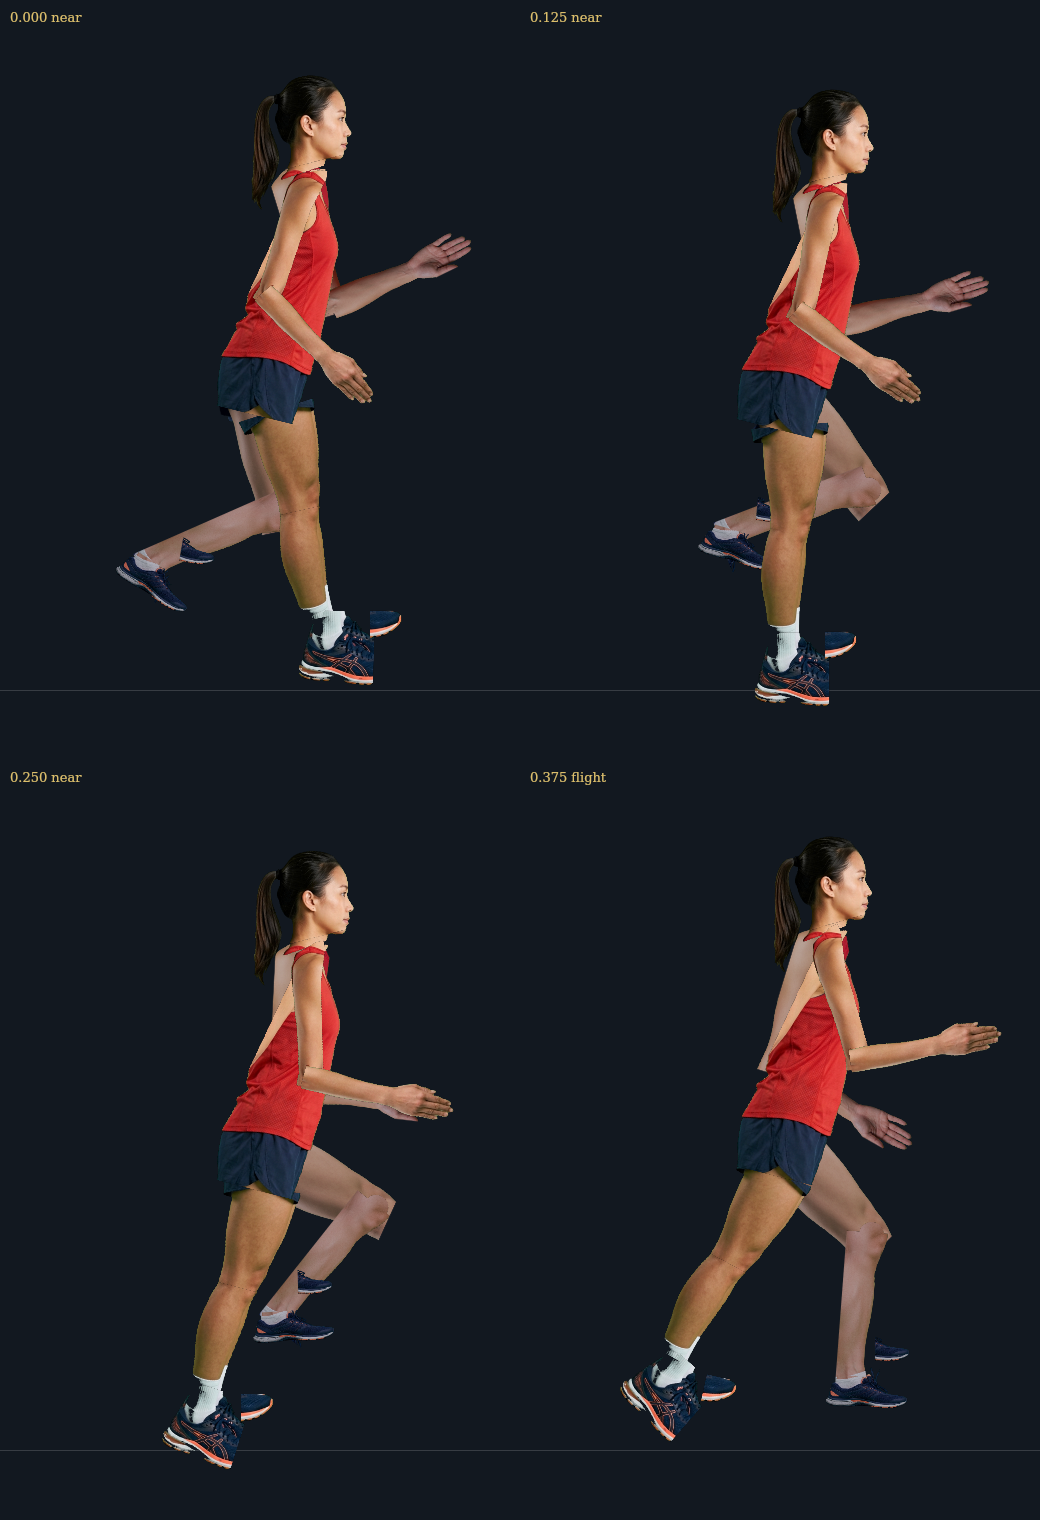
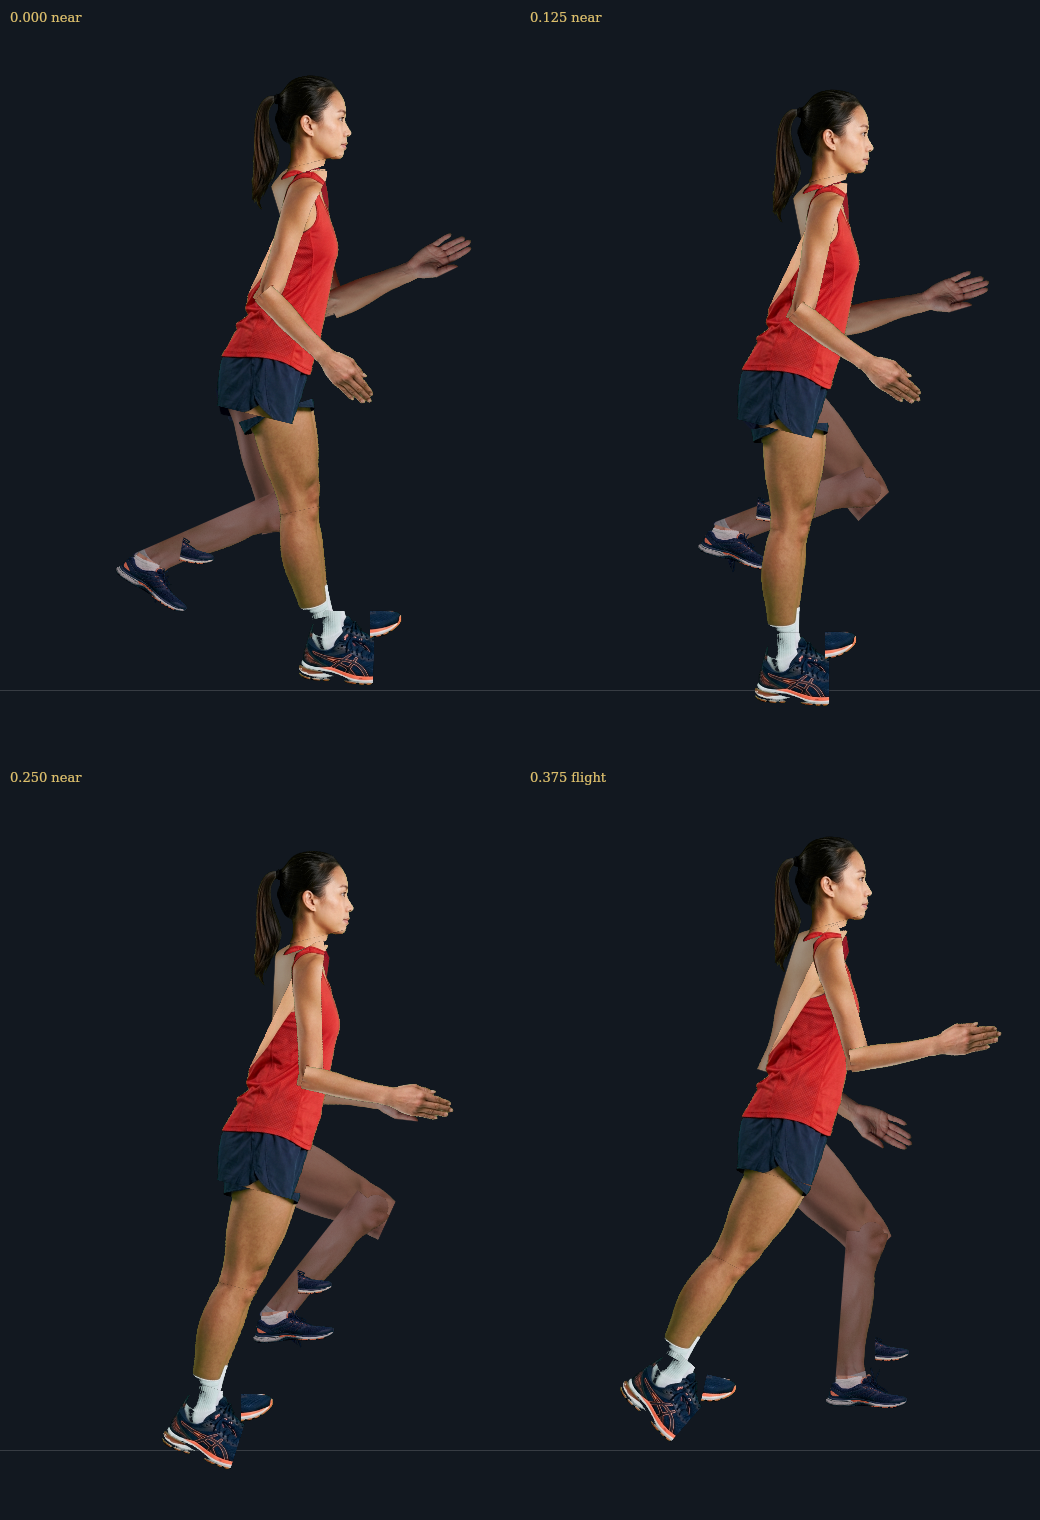
Give the far thigh its shorts overlap so the hip never opens

diff --git a/tools/photo-far-spec.ts b/tools/photo-far-spec.ts
@@ -69,7 +69,7 @@ export const FAR_SOURCES: readonly FarSource[] = [
     pieces: [
       {
         id: "thigh",
-        box: [270, 145, 560, 545],
+        box: [270, 110, 560, 545],
         jointA: [395, 120],
         jointB: [420, 500],
         pivot: [395, 120],
